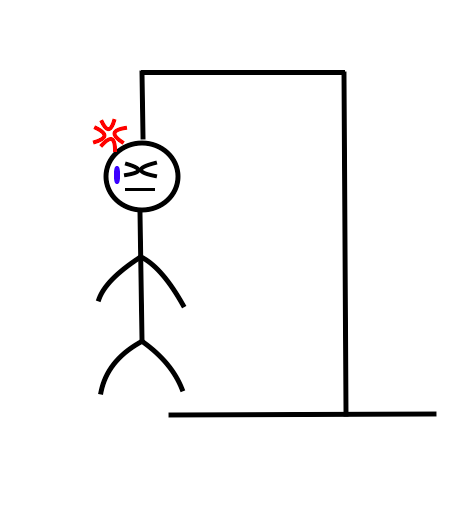
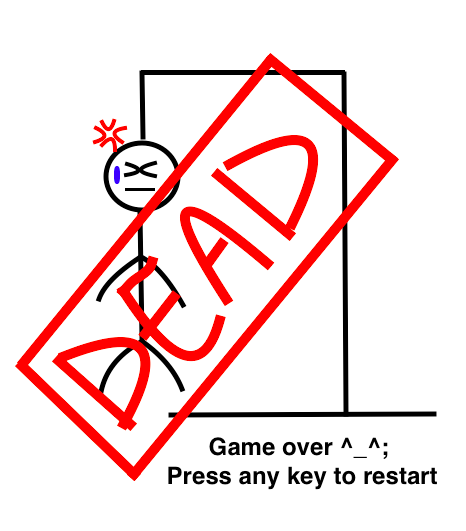
updated game over img

Changed region(s): [[0.03, 0.0904, 0.8712, 0.904], [0.3605, 0.8136, 0.9313, 0.9341], [0.4506, 0.2411, 0.691, 0.452]]

diff --git a/assets/javascript/game.js b/assets/javascript/game.js
@@ -64,6 +64,7 @@ function init() {
 	newAnswer = "";
 	maxGuesses = 7;
 	gameOver = false;
+	wrongAnswer = 0;
 	for (var i = 0; i < answer.length; i++) {
 		newAnswer = newAnswer + "_";
 	} 
@@ -72,6 +73,7 @@ function init() {
 	$("#answer").append(newAnswerDiv);
 	$("#newAnswerDiv").append(newAnswer);
 	$("#guessedWrong").text("");
+	setPic();
 	console.log(answer);
 }
 
